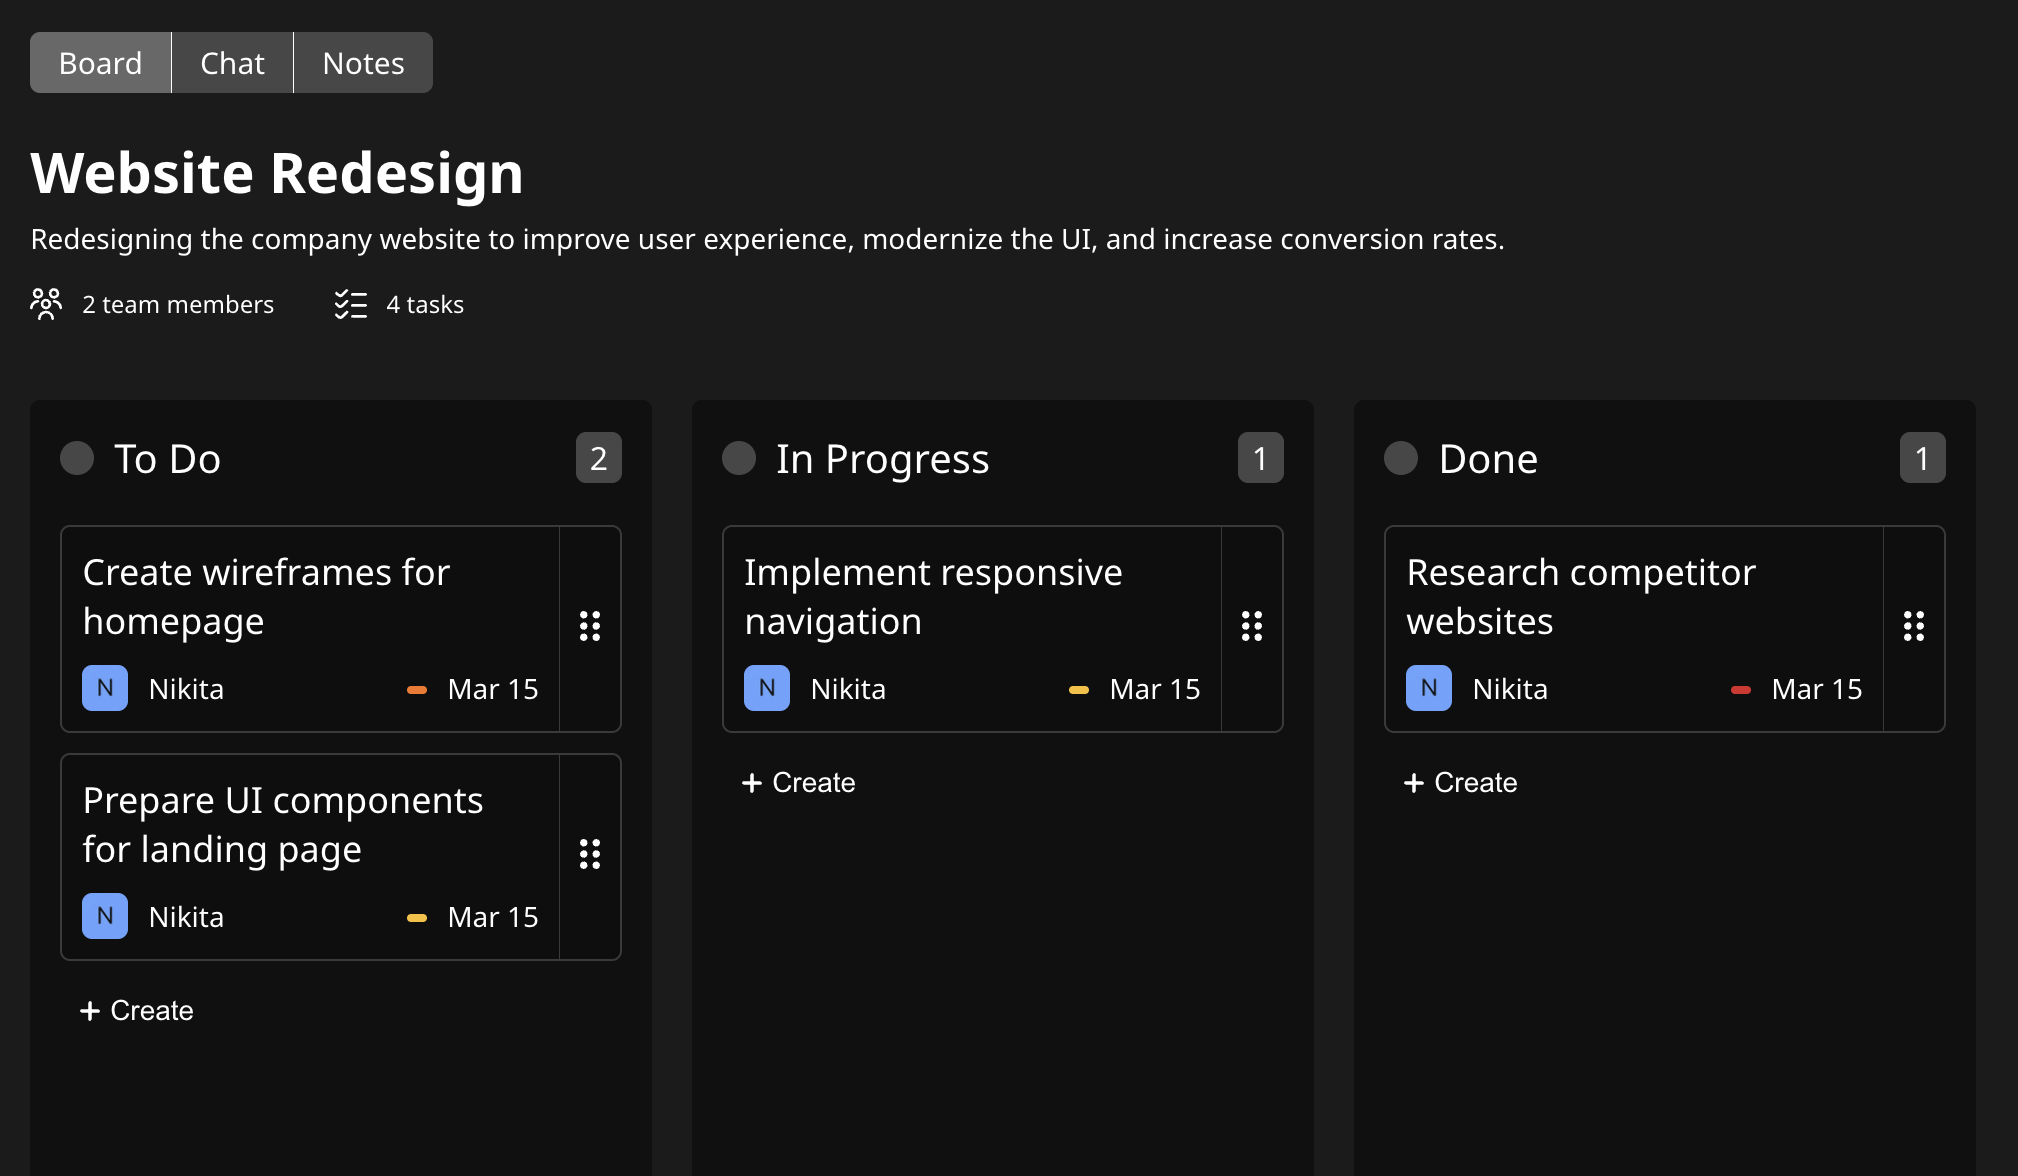
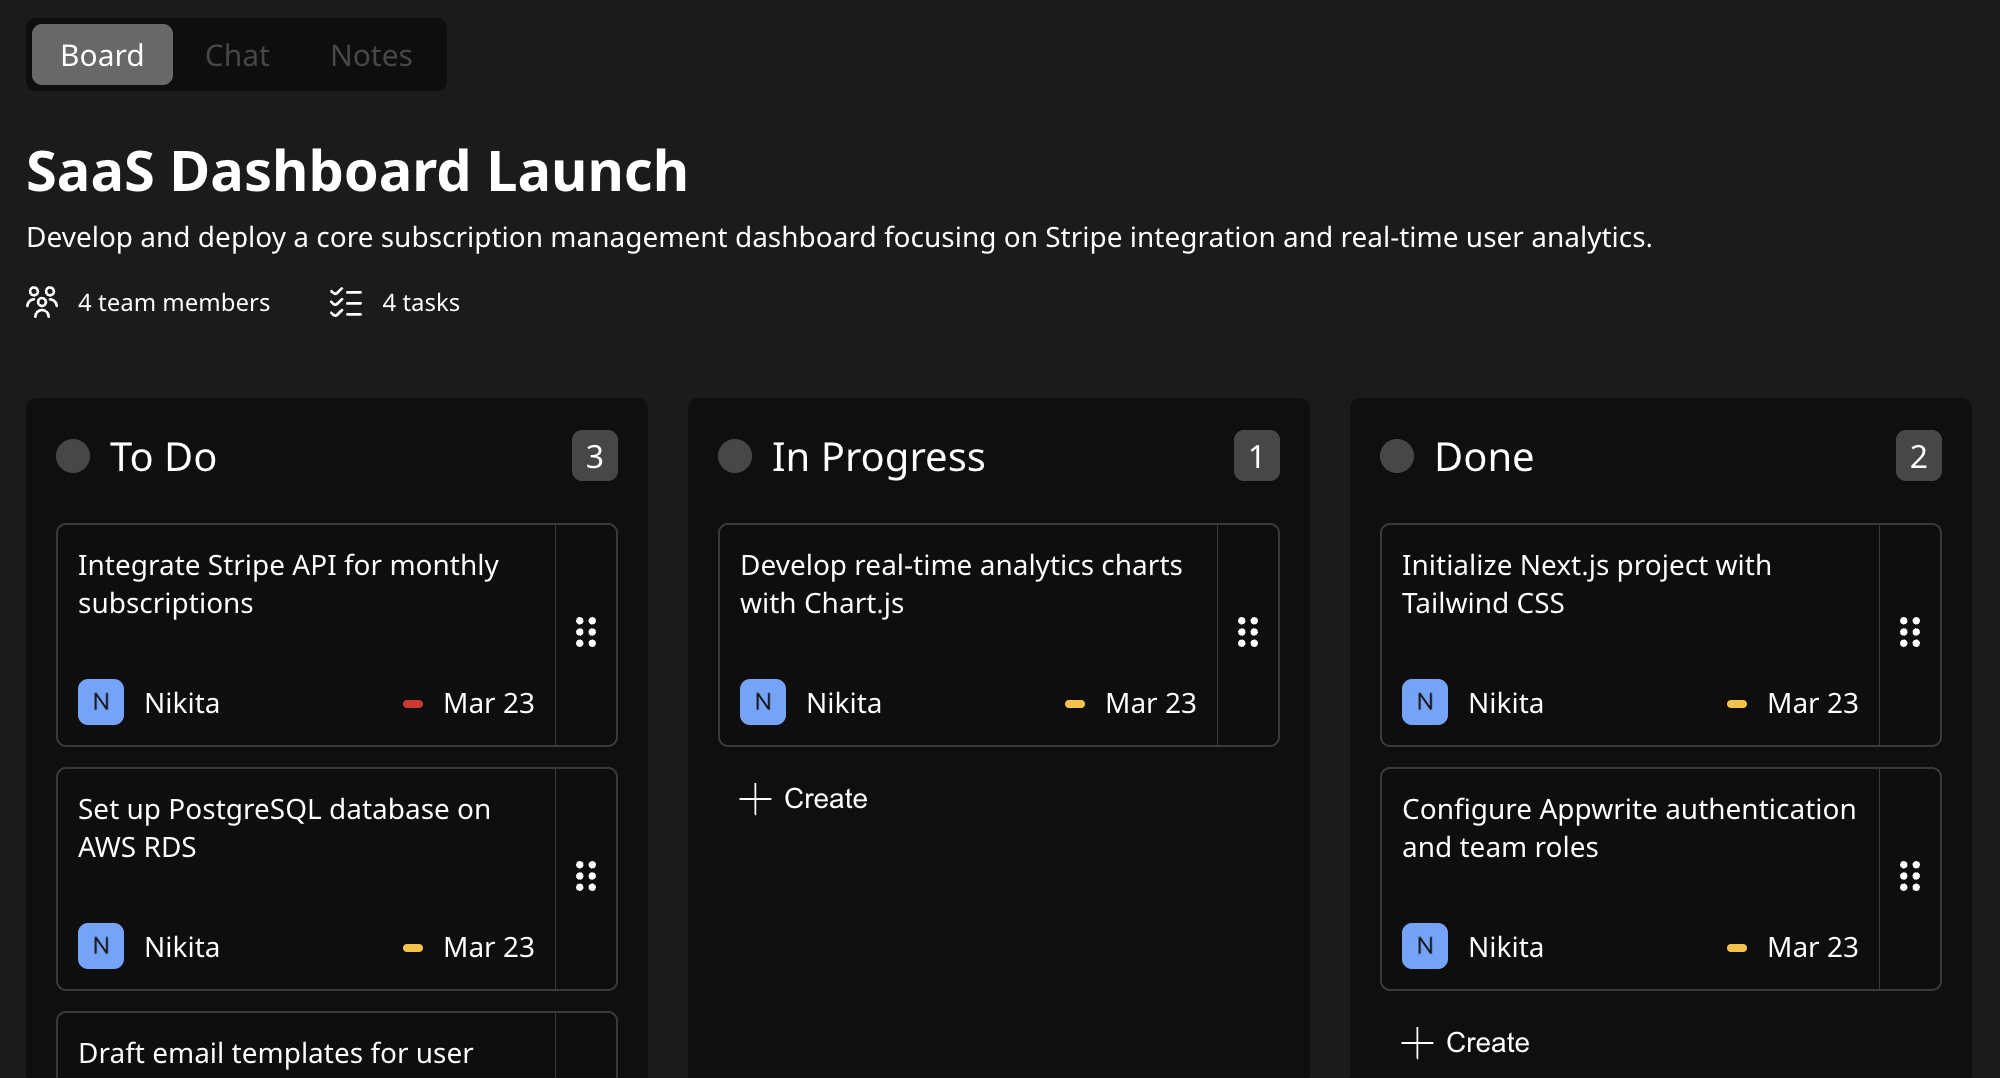
added readme, changed images

diff --git a/src/app/(landing)/components/features/features.tsx b/src/app/(landing)/components/features/features.tsx
@@ -78,7 +78,7 @@ const CalendarVisual = () => (
 	</div>
 )
 
-const KanbanVisual = () => <Image src={'/projects.png'} alt='Projects' width={568} height={350} />
+const KanbanVisual = () => <Image src={'/projects.png'} alt='Projects' width={620} height={350} />
 
 const TimerVisual = () => <Image src={'/timer.png'} alt='Projects' width={568} height={298} />
 

diff --git a/README.md b/README.md
@@ -1,33 +1,48 @@
 # Focusphere
 
-## Tech stack
+Focusphere is a productivity platform that combines personal planning and team collaboration in one web app.
 
-### Frontend
+It includes projects, Kanban board, team chat, notes, journal, calendar, planner, and focus timer in a single workflow.
 
-- [Next.js](https://nextjs.org/)
-- [TypeScript](https://www.typescriptlang.org/)
-- [Tailwind CSS](https://tailwindcss.com/)
+## Live & Repository
 
-### Backend
+- Live Demo: https://focusphere-test.vercel.app
+- Repository: `https://github.com/lisnyaknikita/focusphere`
 
-- [Python](https://www.python.org/)
-- [FastAPI](https://fastapi.tiangolo.com/)
-- [SQLAlchemy](https://www.sqlalchemy.org/)
-- [SQLite](https://sqlite.org/)
+## Product Highlights
 
-## How to launch
+- End-to-end auth flow: email/password, Google OAuth, email verification, password recovery
+- Team project workspace: Kanban board, channels-based chat, project notes
+- Personal productivity stack: calendar, planner (time blocks/goals/tasks), journal, focus timer
+- Rich client UX: modals, autosave patterns, optimistic updates, drag-and-drop calendar interactions
 
-Clone the repository `git clone https://github.com/lisnyaknikita/focusphere.git`
+## Screenshots
 
-### Lunch the frontend
+### Dashboard
 
-1. Go to the frontend directory `cd front`
-2. Install the dependencies `npm install`
-3. Run the frontend `npm run dev`
+![Dashboard preview](public/dashboard.png)
 
-### Lunch the backend
+### Kanban Board
 
-1. Go to the backend directory `cd back`
-2. Create a virtual environment `python -m venv .venv`
-3. Install the dependencies `pip install -r pyproject.toml`
-4. Run the backend `uvicorn main:app --reload`
+![Kanban board preview](public/projects.png)
+
+## Tech Stack
+
+- Framework: [Next.js 15 (App Router)](https://nextjs.org/), [React 19](https://react.dev/), [TypeScript](https://www.typescriptlang.org/)
+- Styling: [Sass / SCSS Modules](https://sass-lang.com/)
+- Forms and validation: [React Hook Form](https://react-hook-form.com/), [Zod](https://zod.dev/)
+- UI/UX libraries: [Framer Motion](https://www.framer.com/motion/), [dnd-kit](https://dndkit.com/)
+- Calendar engine: [Schedule-X](https://schedule-x.dev/)
+- Backend platform: [Appwrite](https://appwrite.io/) (Auth, Database, Storage, Teams)
+
+## Architecture Overview
+
+- `src/app`: route groups and pages (`(landing)`, `(auth)`, `(main)`)
+- `src/shared`: reusable UI, hooks, contexts, types, utils
+- `src/lib`: Appwrite integration and domain-level data access modules
+
+State approach:
+
+- Local state for view-level interactions
+- React Context for cross-screen domain/UI state
+- Custom hooks for orchestration and side effects